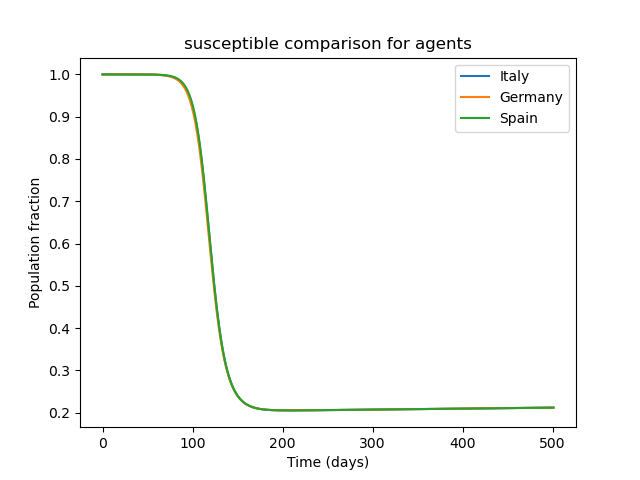
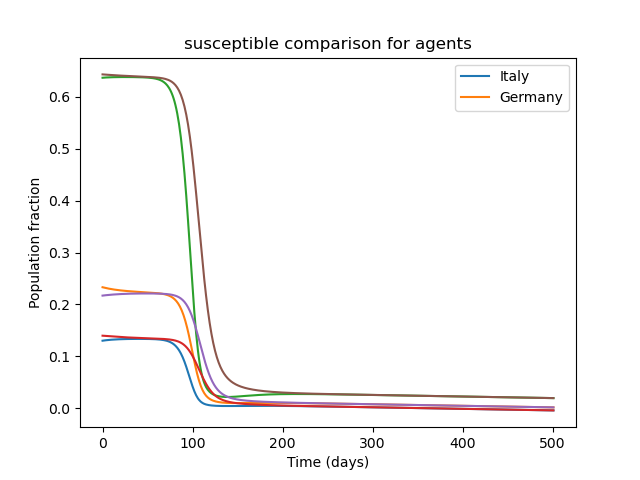
SEIARD fully working for age groups + plotting

diff --git a/agent.py b/agent.py
@@ -5,9 +5,11 @@ from abc import ABC
 
 class Agent(ABC):
 
-	def __init__(self, contact_matrix, population, name, state, parameters):
+	def __init__(self, contact_matrix, population, C, name, state, parameters):
 
 		self.contact_matrix = contact_matrix
+		self.population = population
+		self.C= C
 		self.name= name
 		self.state = State(population, **state)
 		self.parameters = parameters
@@ -19,12 +21,9 @@ class Agent(ABC):
 	
 	def update_history(self, state):
 
-		#print(state.to_array)
-
 		self.__history.append(state.to_array)
 
 	def set_state(self, state):
-		#print(self.state)
 
 		self.state=state
 
@@ -49,14 +48,9 @@ class Agent(ABC):
 
 		new_state= State(self.state.set_value('-',value), *self.state.SEAIRDV)
 
-		#np.append(self.state.SEAIRDV)
-
-
-		#print(self.state.SEAIRDV)
-
-		print(new_state)
 
 		self.replace_state(new_state)
+
 
 		return self
 
@@ -65,7 +59,7 @@ class Agent(ABC):
 		calc_new_seir = ((mig_agent.state.SEAIRDV * value) + (self.state.SEAIRDV * self.state.N)) / (value + self.state.N)
 
 
-		new_state = State(*calc_new_seir,  value + self.state.N)
+		new_state = State(value + self.state.N, *calc_new_seir)
 
 		return new_state
 

diff --git a/nation.py b/nation.py
@@ -7,7 +7,6 @@ class Nation(Agent):
 
 	def interact(self, conn_agents, value):
 
-		print(self.state.N)
 		migration= self.state.N * value
 
 		self.emigrate(migration)
@@ -37,7 +36,7 @@ class Nation(Agent):
 		"""
 
 
-		S, E, A, I, R, D, V, N = self.state.to_array
+		N, S, E, A, I, R, D, V = self.state.to_array
 
 		b, n, c, s, g, d, e, k, w_a, w_i = [*self.parameters.values()]
 
@@ -52,10 +51,9 @@ class Nation(Agent):
 		next_V = w_a*A+w_i*I
 		"""
 
-		print('Next State being computed')
-		next_S= S - b * S * (C @ V + C @ ((A + I) /N[:2])) - n * S_i - n * (1 - D_i)
+		next_S= S - b * S * (self.C @ V + self.C @ ((A + I) /N.sum())) - n * S - n * (1 - D)
 
-		next_E = E_i + b * S * (C @ V + C @ ((A + I) /N[:2])) - (k + n) * E
+		next_E = E + b * S * ( self.C @ V +  self.C @ ((A + I) /N.sum())) - (k + n) * E
 
 		next_A= A + (1 - e) * k * E - (g + n) * A
 
@@ -67,4 +65,4 @@ class Nation(Agent):
 
 		next_V= (w_a * A) + (w_i * I) 
 		
-		return State(next_S, next_E, next_A, next_I, next_R, next_D, next_V, N)
+		return State(N, next_S, next_E, next_A, next_I, next_R, next_D, next_V)

diff --git a/plots.py b/plots.py
@@ -5,9 +5,13 @@ def plot_compartment_comparison(agents, idx, comp_name):
     # Plot desired compartment
     for curr_agent in agents:
 
-        arr_filter = np.asarray(agents[curr_agent].history)[:, idx] > 0.001
+        arr_filter = np.asarray(agents[curr_agent].history[:,1:,:])[:,idx:, :] > 0.001
 
-        plt.plot(agents[curr_agent].history[arr_filter, idx])
+
+        plt.plot(agents[curr_agent].history[:,1:,:][:,idx, 0])
+        plt.plot(agents[curr_agent].history[:,1:,:][:,idx, 1])
+        plt.plot(agents[curr_agent].history[:,1:,:][:,idx, 2])
+        
 
     # Add information
     plt.title(f"{comp_name} comparison for agents")

diff --git a/main.py b/main.py
@@ -39,7 +39,6 @@ for agent in data_agents:
 
 		population = load_pop(agent['name'], settings['age_group'])
 
-		print(agent)
 
 		if settings['age_group'] == True:
 
@@ -49,13 +48,13 @@ for agent in data_agents:
 
 				agent['state'][key] = pop_perc*value
 
-		agent_obj = Nation(cont_matrix, population, **agent)
 
-		print(agent_obj)
+		C=summary_C(cont_matrix)
+		agent_obj = Nation(cont_matrix, population, C, **agent)
+
+		#print(agent_obj)
 
 		agents[agent_obj.name]=agent_obj
-
-		summary_C(agent_obj)
 
 
 

diff --git a/utils.py b/utils.py
@@ -85,7 +85,7 @@ def norm_home(country, path):
 
 	return sum_home_hh
 
-def summary_C(nation, alpha=0.2):
+def summary_C(contact_matrix, alpha=0.2):
 
 	dict=load_JSON('contact_settings.json')
 
@@ -97,11 +97,11 @@ def summary_C(nation, alpha=0.2):
 
 	k=['school','work','other']
 
-	C=nation.contact_matrix.home
+	C=contact_matrix.home
 
 	for i in k:
 
-		m_i=getattr(nation.contact_matrix,i)
+		m_i=getattr(contact_matrix,i)
 
 		C_i=X@(m_i@X)
 
